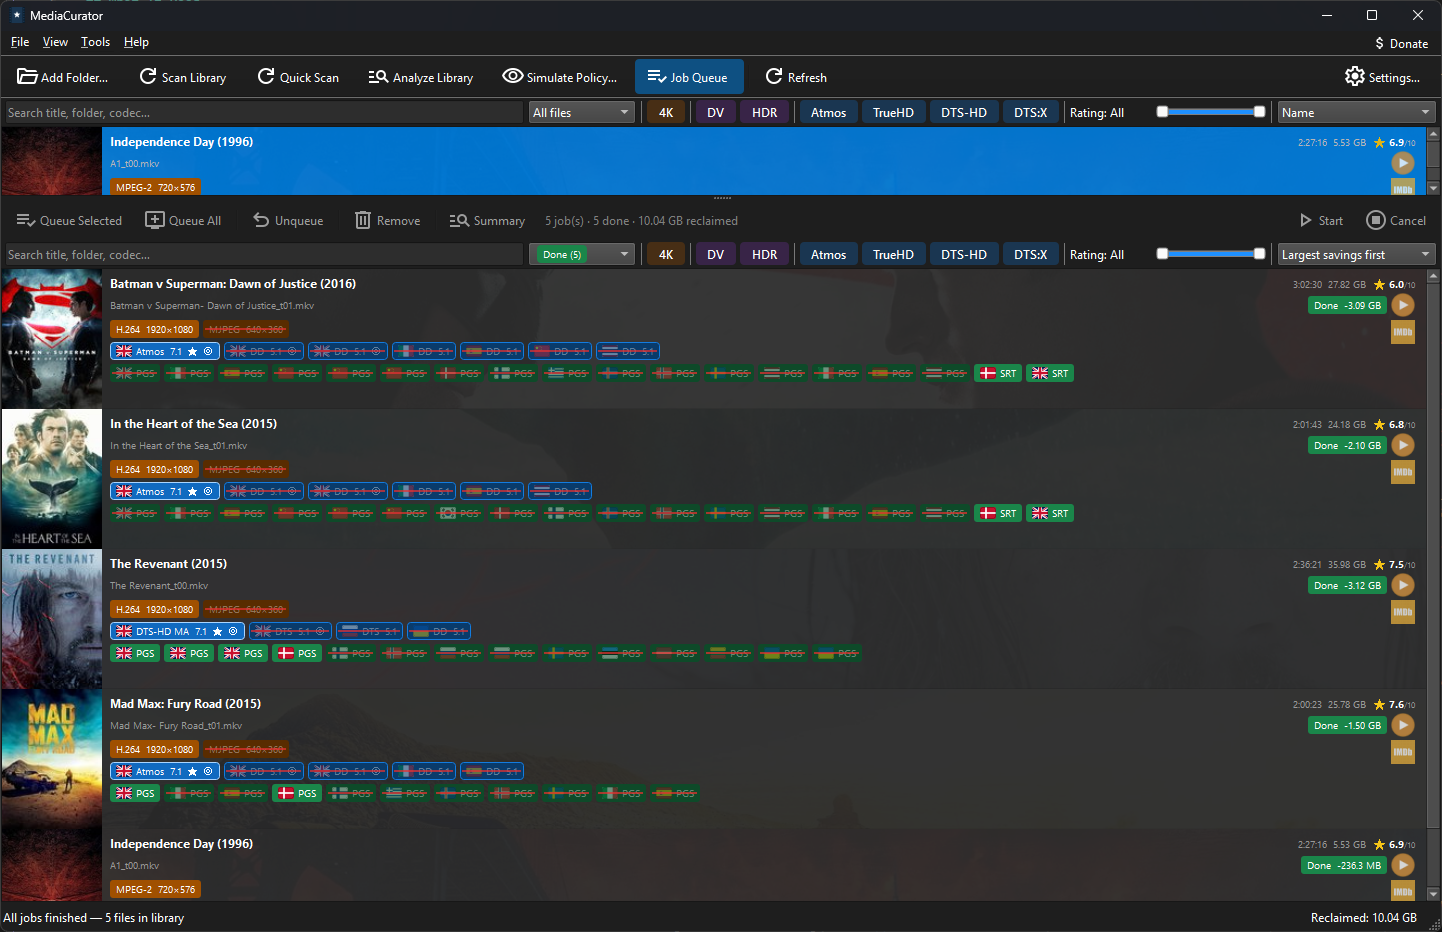
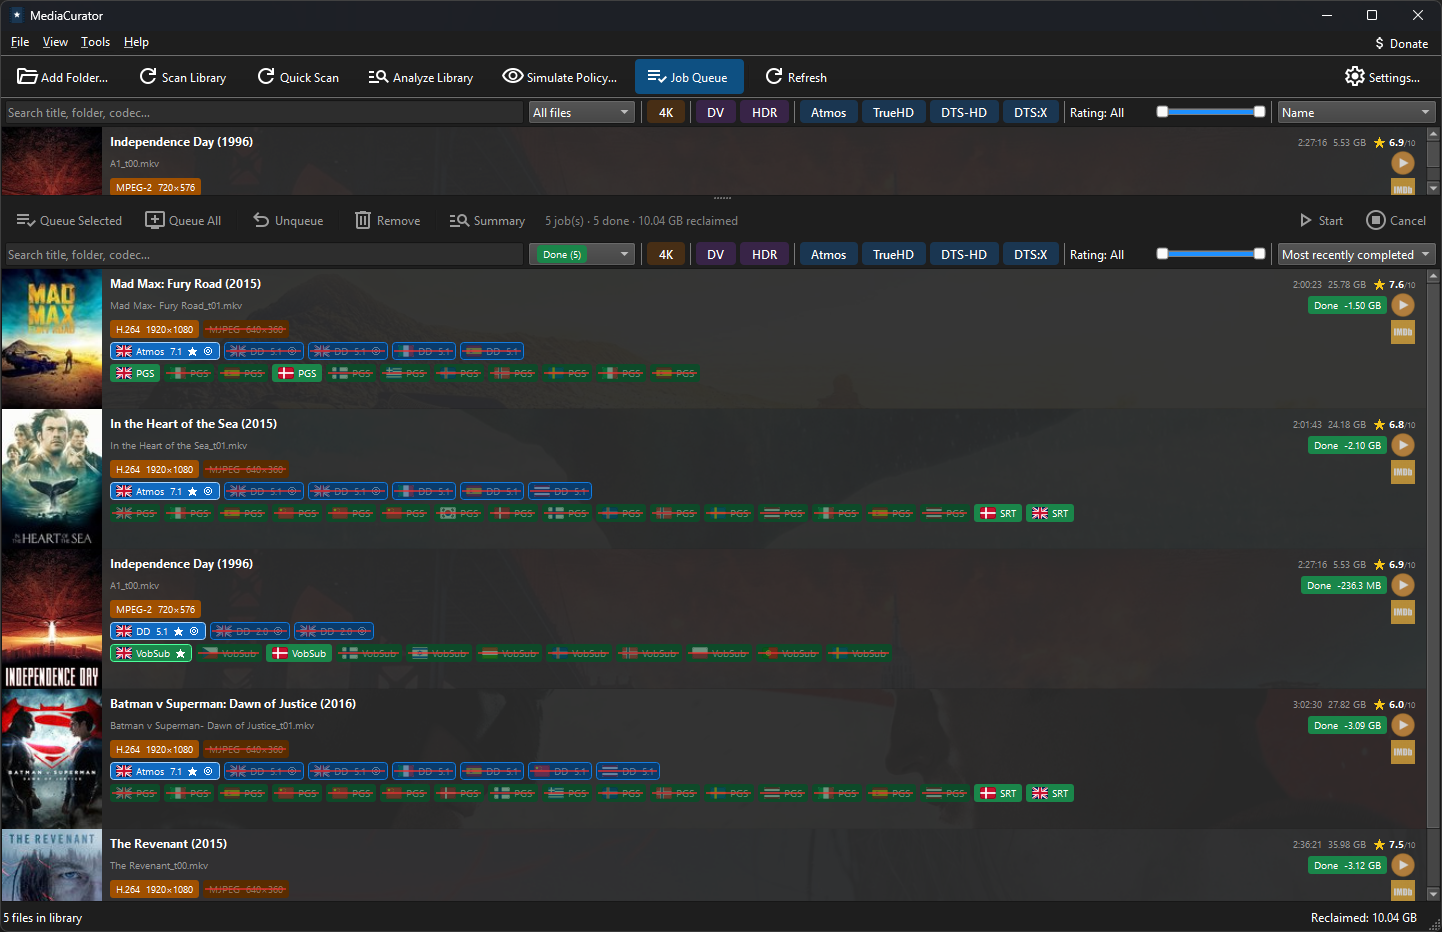
Added more context to screenshots

diff --git a/README.md b/README.md
@@ -12,13 +12,17 @@ MediaCurator scans your library, identifies which tracks you actually want, and 
 
 ## Screenshots
 
+For a small test library of 5 movies, here is what MediaCurator looks like in action:
+
 | Library view | "What If" simulation |
 |---|---|
-| ![Library grid with file cards](docs/screenshots/library-grid.png) | ![What If dry-run results](docs/screenshots/what-if.png) |
+| ![Library grid with file cards](docs/screenshots/library-grid.png)<br>*Every file scanned with full stream metadata — audio, subtitles, resolution, and HDR format at a glance.* | ![What If dry-run results](docs/screenshots/what-if.png)<br>*Preview affected files and estimated space savings across the whole library before creating a single job.* |
 
 | Job queue | Done jobs — space reclaimed |
 |---|---|
-| ![Job queue with pending removals](docs/screenshots/job-queue.png) | ![Completed job queue showing space saved per file](docs/screenshots/job-queue-done.png) |
+| ![Job queue with pending removals](docs/screenshots/job-queue.png)<br>*Proposed track removals queued for review — nothing is touched until you approve.* | ![Completed job queue showing space saved per file](docs/screenshots/job-queue-done.png)<br>*Finished jobs show exactly how much space was reclaimed, file by file.* |
+
+After setting rules to retain only english and danish audio and subtitle tracks (no commentary), the estimate is that we can reclaim 10 GB of disk space, and the final result is exactly that — **10 GB** of irrelevant or redundant audio tracks and subtitles removed.
 
 ## Features
 